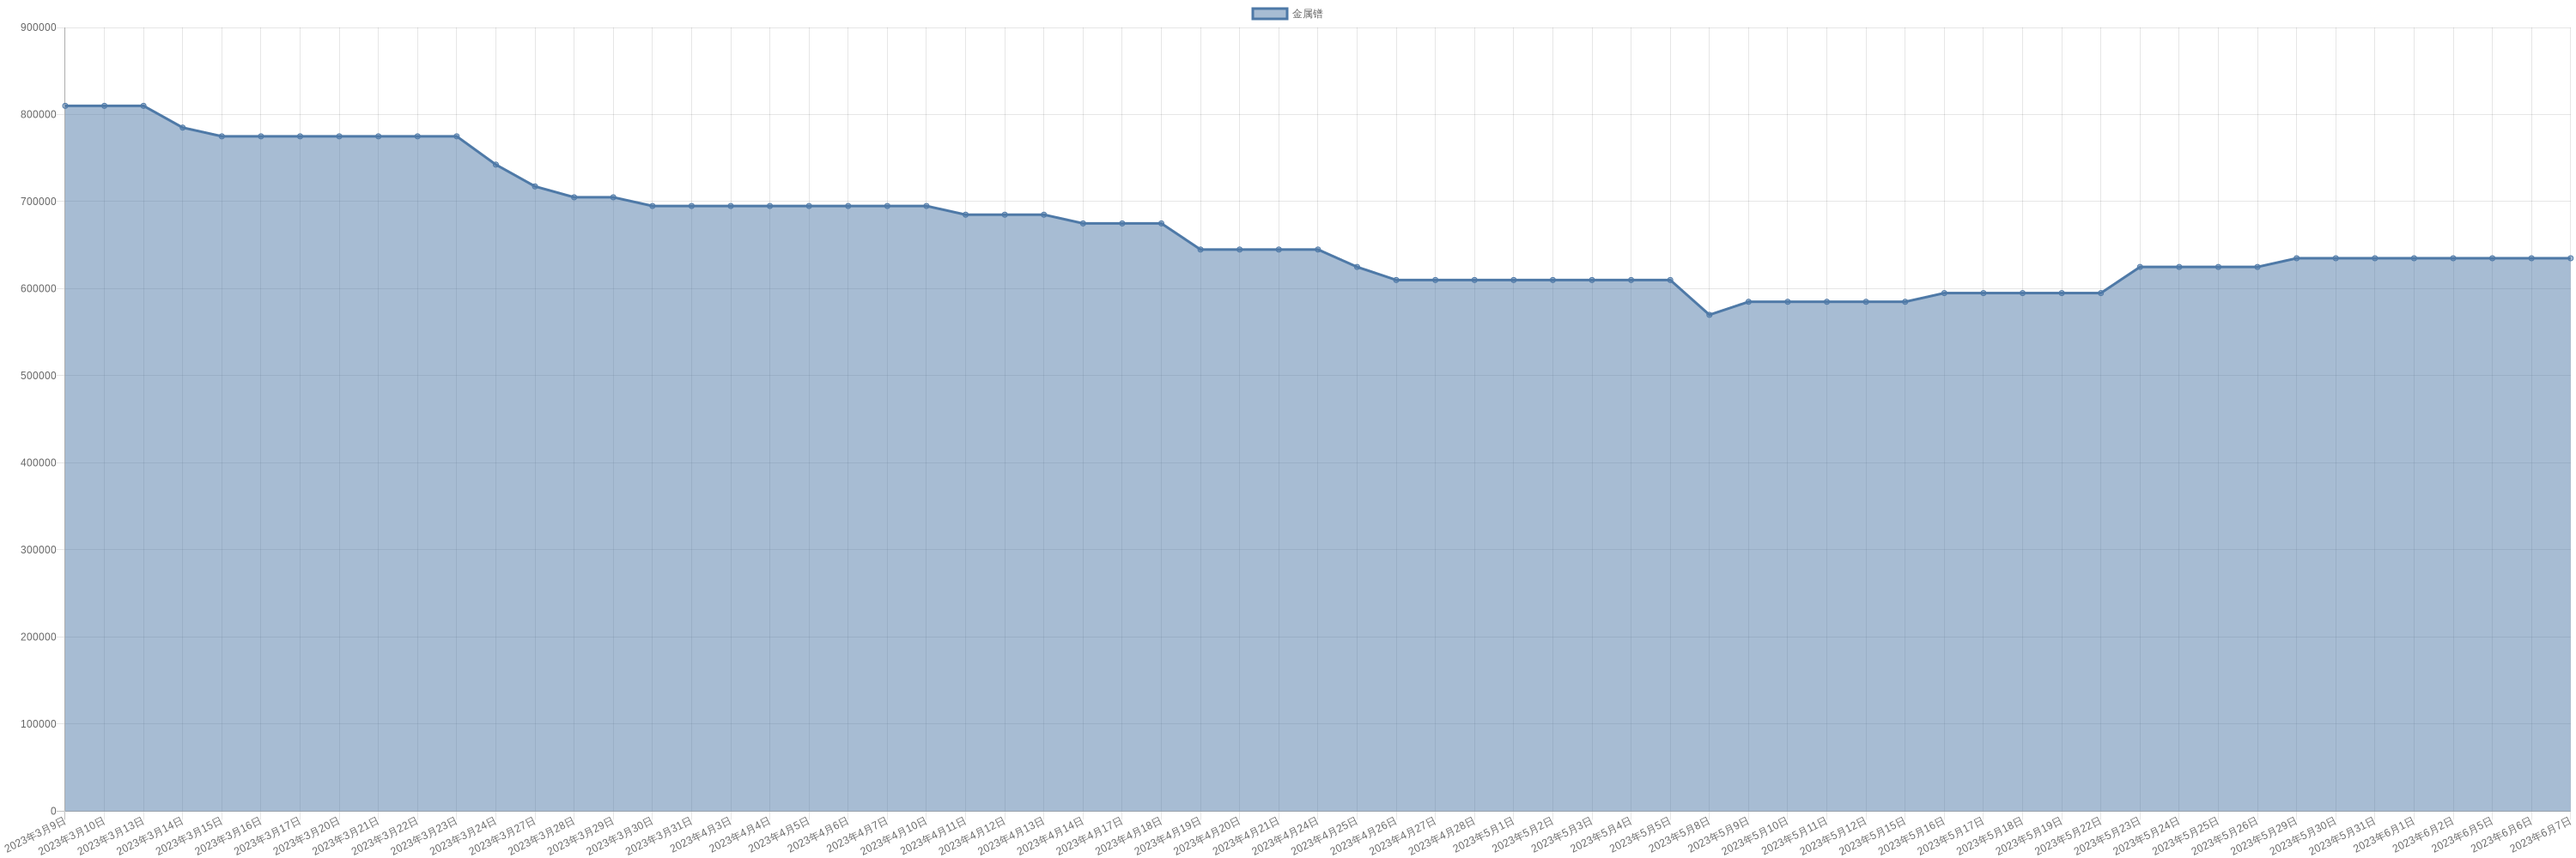
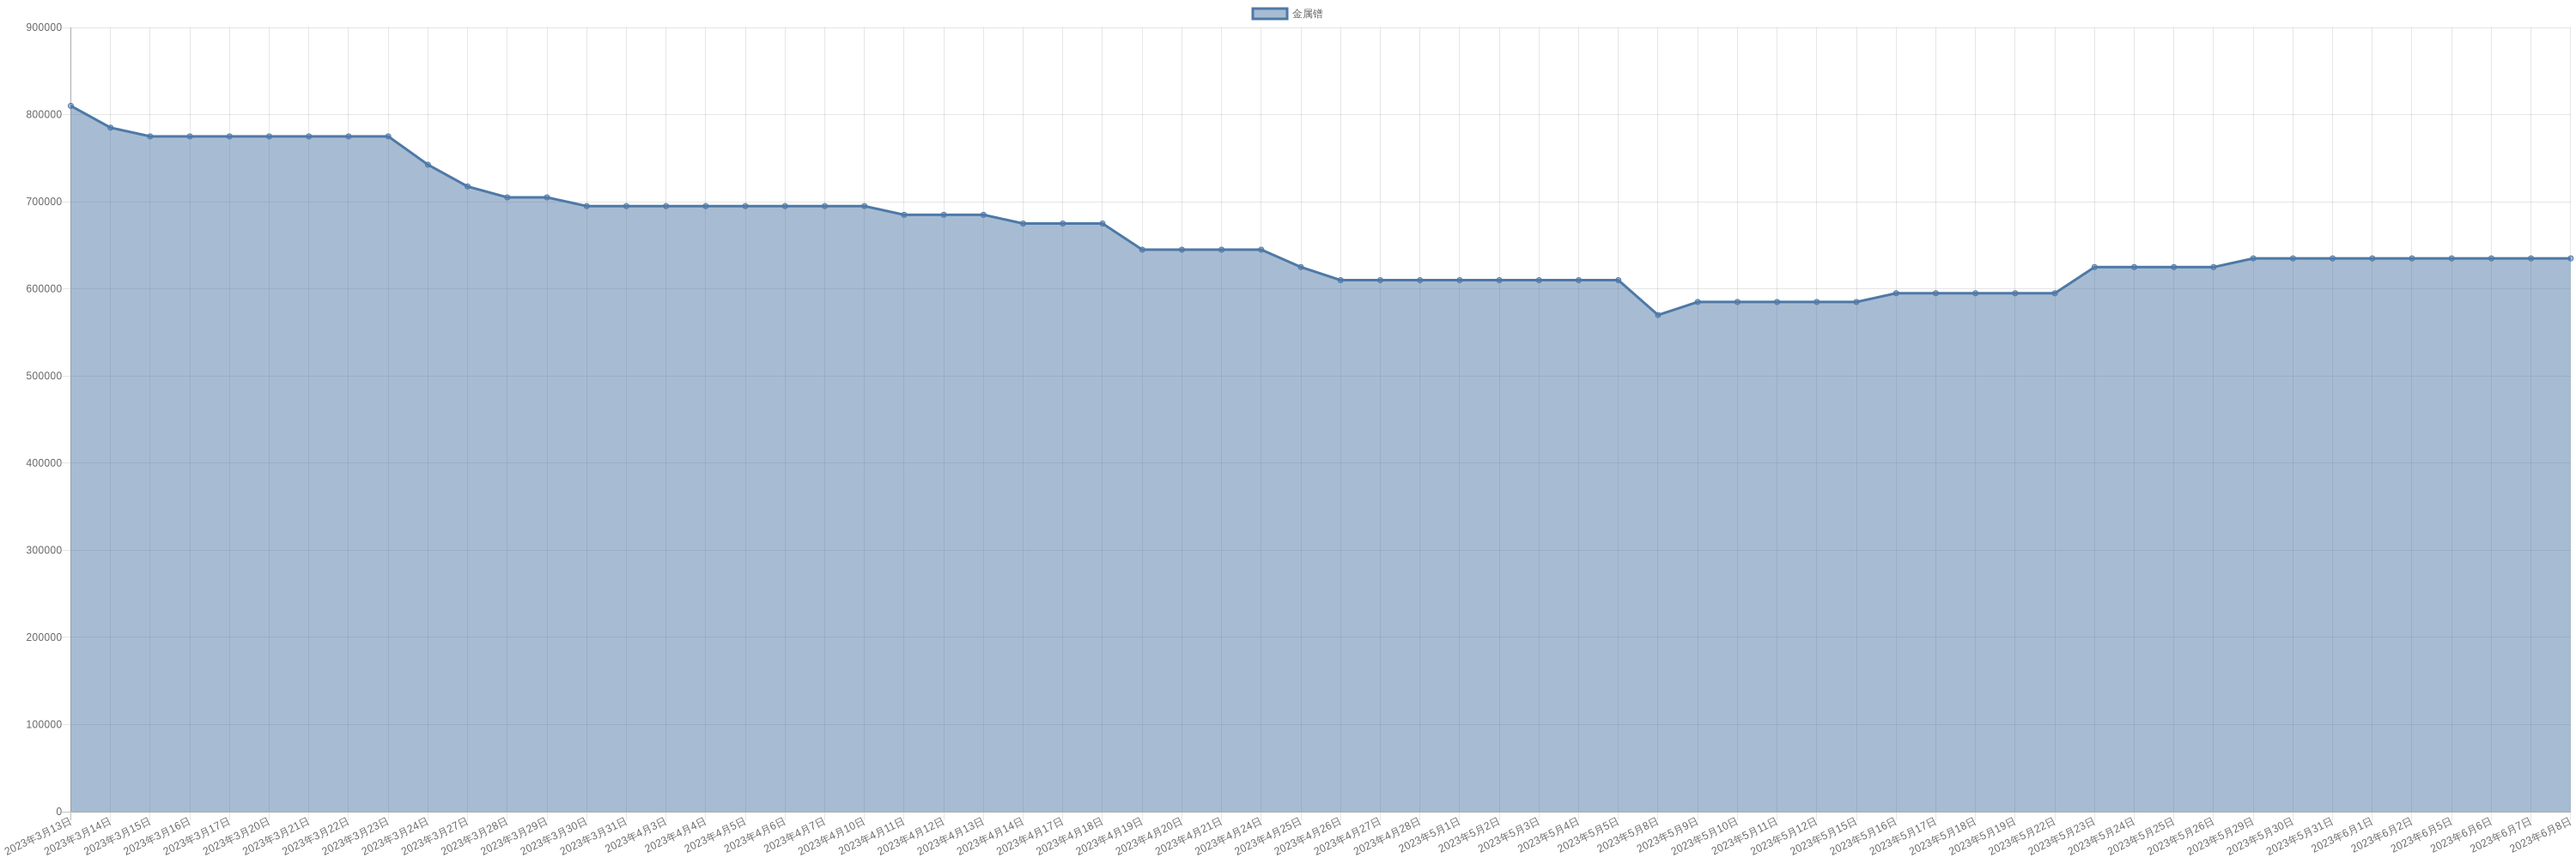
chore: sync commodity monitor

diff --git a/markdown/commodity/crudeOil.md b/markdown/commodity/crudeOil.md
@@ -2,6 +2,8 @@
 
 | 时间 | 价格 | 消息正文 |
 |:--:|:--:|:--:|
+|2023年6月8日WTI|72.53|6月8日WTI原油为72.53|
+|2023年6月8日Brent|76.95|6月8日Brent原油为76.95|
 |2023年6月7日Brent|76.29|6月7日Brent原油为76.29|
 |2023年6月7日WTI|71.74|6月7日WTI原油为71.74|
 |2023年6月6日WTI|72.15|6月6日WTI原油为72.15|

diff --git a/markdown/commodity/praseodymiumNeodymiumOxide.md b/markdown/commodity/praseodymiumNeodymiumOxide.md
@@ -8,6 +8,7 @@
 
 | 时间 | 价格 | 消息正文 |
 |:--:|:--:|:--:|
+|2023年6月8日|500000|6月8日镨钕氧化物为500000.00|
 |2023年6月7日|500000|6月7日镨钕氧化物为500000.00|
 |2023年6月6日|500000|6月6日镨钕氧化物为500000.00|
 |2023年6月5日|490000|6月5日镨钕氧化物为490000.00|

diff --git a/markdown/commodity/dyFeAlloy.md b/markdown/commodity/dyFeAlloy.md
@@ -8,6 +8,7 @@
 
 | 时间 | 价格 | 消息正文 |
 |:--:|:--:|:--:|
+|2023年6月8日|2060000|6月8日镝铁合金为2060000.00|
 |2023年6月7日|2060000|6月7日镝铁合金为2060000.00|
 |2023年6月6日|2060000|6月6日镝铁合金为2060000.00|
 |2023年6月5日|2050000|6月5日镝铁合金为2050000.00|

diff --git a/markdown/commodity/lithiumHydroxide.md b/markdown/commodity/lithiumHydroxide.md
@@ -8,6 +8,7 @@
 
 | 时间 | 价格 | 消息正文 |
 |:--:|:--:|:--:|
+|2023年6月8日|332500|6月8日氢氧化锂为332500.00|
 |2023年6月7日|331250|6月7日氢氧化锂为331250.00|
 |2023年6月6日|331250|6月6日氢氧化锂为331250.00|
 |2023年6月5日|326250|6月5日氢氧化锂为326250.00|

diff --git a/markdown/commodity/praseodymiumNeodymiumAlloy.md b/markdown/commodity/praseodymiumNeodymiumAlloy.md
@@ -8,6 +8,7 @@
 
 | 时间 | 价格 | 消息正文 |
 |:--:|:--:|:--:|
+|2023年6月8日|602500|6月8日镨钕合金为602500.00|
 |2023年6月7日|602500|6月7日镨钕合金为602500.00|
 |2023年6月6日|602500|6月6日镨钕合金为602500.00|
 |2023年6月5日|600000|6月5日镨钕合金为600000.00|

diff --git a/markdown/commodity/dysprosiumMetal.md b/markdown/commodity/dysprosiumMetal.md
@@ -8,6 +8,7 @@
 
 | 时间 | 价格 | 消息正文 |
 |:--:|:--:|:--:|
+|2023年6月8日|2680000|6月8日金属镝为2680000.00|
 |2023年6月7日|2680000|6月7日金属镝为2680000.00|
 |2023年6月6日|2680000|6月6日金属镝为2680000.00|
 |2023年6月5日|2680000|6月5日金属镝为2680000.00|

diff --git a/markdown/commodity/dysprosiumOxide.md b/markdown/commodity/dysprosiumOxide.md
@@ -8,6 +8,7 @@
 
 | 时间 | 价格 | 消息正文 |
 |:--:|:--:|:--:|
+|2023年6月8日|2105000|6月8日氧化镝为2105000.00|
 |2023年6月7日|2105000|6月7日氧化镝为2105000.00|
 |2023年6月6日|2090000|6月6日氧化镝为2090000.00|
 |2023年6月5日|2080000|6月5日氧化镝为2080000.00|

diff --git a/markdown/commodity/liquefiedNaturalGas.md b/markdown/commodity/liquefiedNaturalGas.md
@@ -8,6 +8,7 @@
 
 | 时间 | 价格 | 消息正文 |
 |:--:|:--:|:--:|
+|2023年6月8日|3560|6月8日液化天然气为3560.00|
 |2023年6月7日|3574|6月7日液化天然气为3574.00|
 |2023年6月6日|3522|6月6日液化天然气为3522.00|
 |2023年6月5日|3520|6月5日液化天然气为3520.00|

diff --git a/markdown/commodity/lithiumIronPhosphate.md b/markdown/commodity/lithiumIronPhosphate.md
@@ -8,6 +8,7 @@
 
 | 时间 | 价格 | 消息正文 |
 |:--:|:--:|:--:|
+|2023年6月8日|94000|6月8日磷酸铁锂为94000.00|
 |2023年6月7日|92000|6月7日磷酸铁锂为92000.00|
 |2023年6月6日|92000|6月6日磷酸铁锂为92000.00|
 |2023年6月5日|92000|6月5日磷酸铁锂为92000.00|

diff --git a/markdown/commodity/neodymium.md b/markdown/commodity/neodymium.md
@@ -8,6 +8,7 @@
 
 | 时间 | 价格 | 消息正文 |
 |:--:|:--:|:--:|
+|2023年6月8日|635000|6月8日金属钕为635000.00|
 |2023年6月7日|635000|6月7日金属钕为635000.00|
 |2023年6月6日|635000|6月6日金属钕为635000.00|
 |2023年6月5日|630000|6月5日金属钕为630000.00|

diff --git a/markdown/commodity/neodymiumOxide.md b/markdown/commodity/neodymiumOxide.md
@@ -8,6 +8,7 @@
 
 | 时间 | 价格 | 消息正文 |
 |:--:|:--:|:--:|
+|2023年6月8日|505000|6月8日氧化钕为505000.00|
 |2023年6月7日|505000|6月7日氧化钕为505000.00|
 |2023年6月6日|505000|6月6日氧化钕为505000.00|
 |2023年6月5日|500000|6月5日氧化钕为500000.00|

diff --git a/markdown/commodity/praseodymium.md b/markdown/commodity/praseodymium.md
@@ -8,6 +8,7 @@
 
 | 时间 | 价格 | 消息正文 |
 |:--:|:--:|:--:|
+|2023年6月8日|635000|6月8日金属镨为635000.00|
 |2023年6月7日|635000|6月7日金属镨为635000.00|
 |2023年6月6日|635000|6月6日金属镨为635000.00|
 |2023年6月5日|635000|6月5日金属镨为635000.00|
